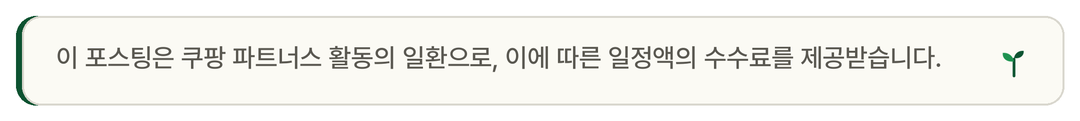
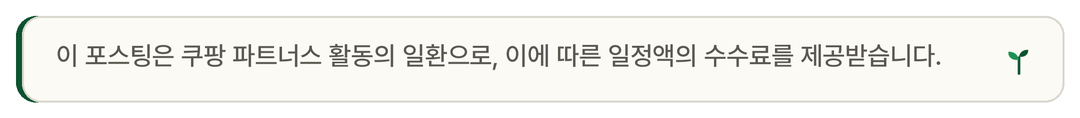
disclosure.py: 한 문장 한 줄(넘치면 글씨 자동 축소), 쇼핑커넥트 문구 추가
Claude-Session: https://claude.ai/code/session_01MpaCEFv2n1uPHYUFbC1omW

diff --git a/disclosure.py b/disclosure.py
@@ -122,22 +122,32 @@ def draw_line(d, x, y, line, f, color, size):
         cx += w
 
 
+def sentences(text):
+    """'...다.' 로 끝나는 문장마다 끊는다(한 문장 = 한 줄)."""
+    return [x.strip() for x in re.split(r"(?<=[다요]\.)\s+", text) if x.strip()]
+
+
 def render(blocks, extras, out):
-    """blocks: [(badge, text)], extras: [str] — 얇은 작은 글씨 1~2줄 배너(2026-11-05 대표 지시: 딱지·강조 없이 은은하게)"""
+    """blocks: [(badge, text)], extras: [str]
+    2026-11-05 대표 지시: 딱지·강조 없이 얇은 작은 글씨, 한 문장은 한 줄(넘치면 글씨를 줄여 맞춘다)"""
     s = SS
     probe = ImageDraw.Draw(Image.new("RGB", (10, 10)))
-    size = 26
-    f = font("Medium", size * s)
-    lh = int(size * 1.6 * s)
+    lines = []
+    for t in [plain(t) for _, t in blocks] + [plain(e) for e in extras]:
+        lines += sentences(t)
     x0 = (PAD + 40) * s
-    mark_w = 44
-    inner = (W - PAD * 2 - 40 - 32 - mark_w - 24) * s
-    texts = [plain(t) for _, t in blocks] + [plain(e) for e in extras]
-    lines = wrap(probe, " ".join(texts), f, inner)
+    mark_w = 36
+    inner = (W - PAD * 2 - 40 - 28 - mark_w - 20) * s
+    size = 26
+    while size > 18 and max(probe.textlength(l, font=font("Medium", size * s)) for l in lines) > inner:
+        size -= 1
+    if max(probe.textlength(l, font=font("Medium", size * s)) for l in lines) > inner:
+        sys.exit("문장이 너무 길어 한 줄에 안 들어갑니다(18px 기준). 문구를 줄이거나 두 문장으로 나눠 주세요.")
+    f = font("Medium", size * s)
+    lh = int(size * 1.65 * s)
 
     card_top = PAD * s
-    body_h = len(lines) * lh
-    card_bot = card_top + 26 * s + body_h + 22 * s
+    card_bot = card_top + 24 * s + len(lines) * lh + 20 * s
     H = card_bot + PAD * s
 
     img = Image.new("RGB", (W * s, H), CARD)   # 네이버 블로그 흰 바탕에 맞춤
@@ -145,16 +155,16 @@ def render(blocks, extras, out):
     d.rounded_rectangle([PAD * s, card_top, (W - PAD) * s, card_bot], radius=20 * s, fill=ACCENT_DEEP)
     d.rounded_rectangle([PAD * s + 6 * s, card_top, (W - PAD) * s, card_bot], radius=19 * s, fill=PAPER2, outline=LINE, width=2 * s)
 
-    y = card_top + 26 * s
+    y = card_top + 24 * s
     for ln in lines:
-        d.text((x0, y), plain(ln), font=f, fill=INK_SOFT)
+        d.text((x0, y), ln, font=f, fill=INK_SOFT)
         y += lh
     mark = HERE / "brand/mark.png"
     if mark.exists():
         m = Image.open(mark).convert("RGBA")
-        mh = 36 * s
+        mh = 34 * s
         m = m.resize((int(m.width * mh / m.height), mh), Image.LANCZOS)
-        img.paste(m, ((W - PAD - 32) * s - m.width, (card_top + card_bot) // 2 - mh // 2), m)
+        img.paste(m, ((W - PAD - 28) * s - m.width, (card_top + card_bot) // 2 - mh // 2), m)
 
     img = img.resize((W, H // s), Image.LANCZOS)
     out = Path(out)
